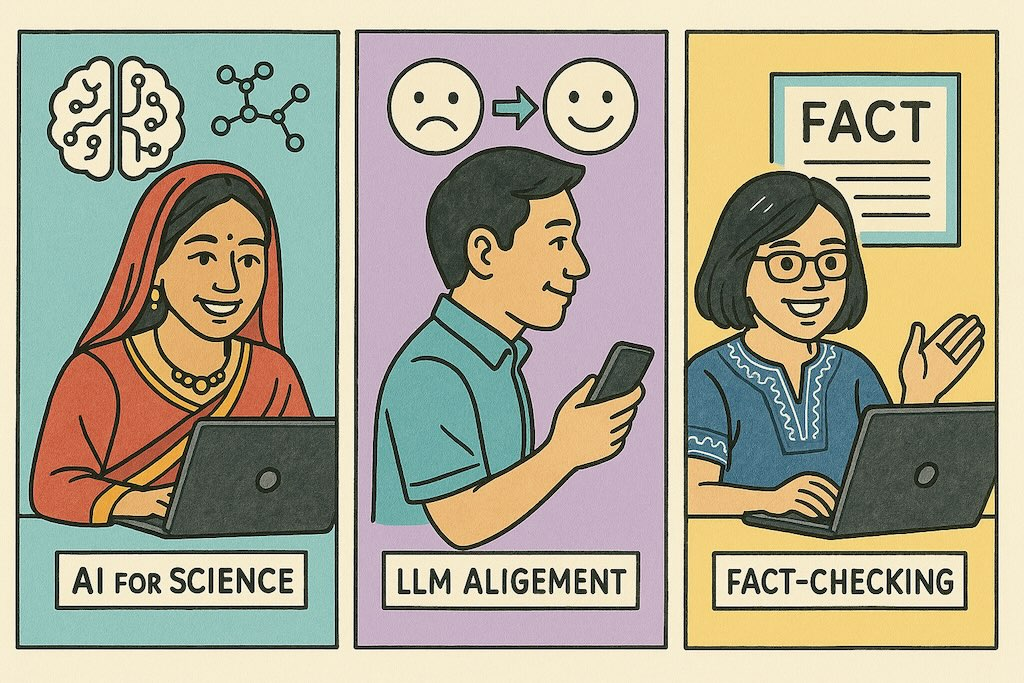
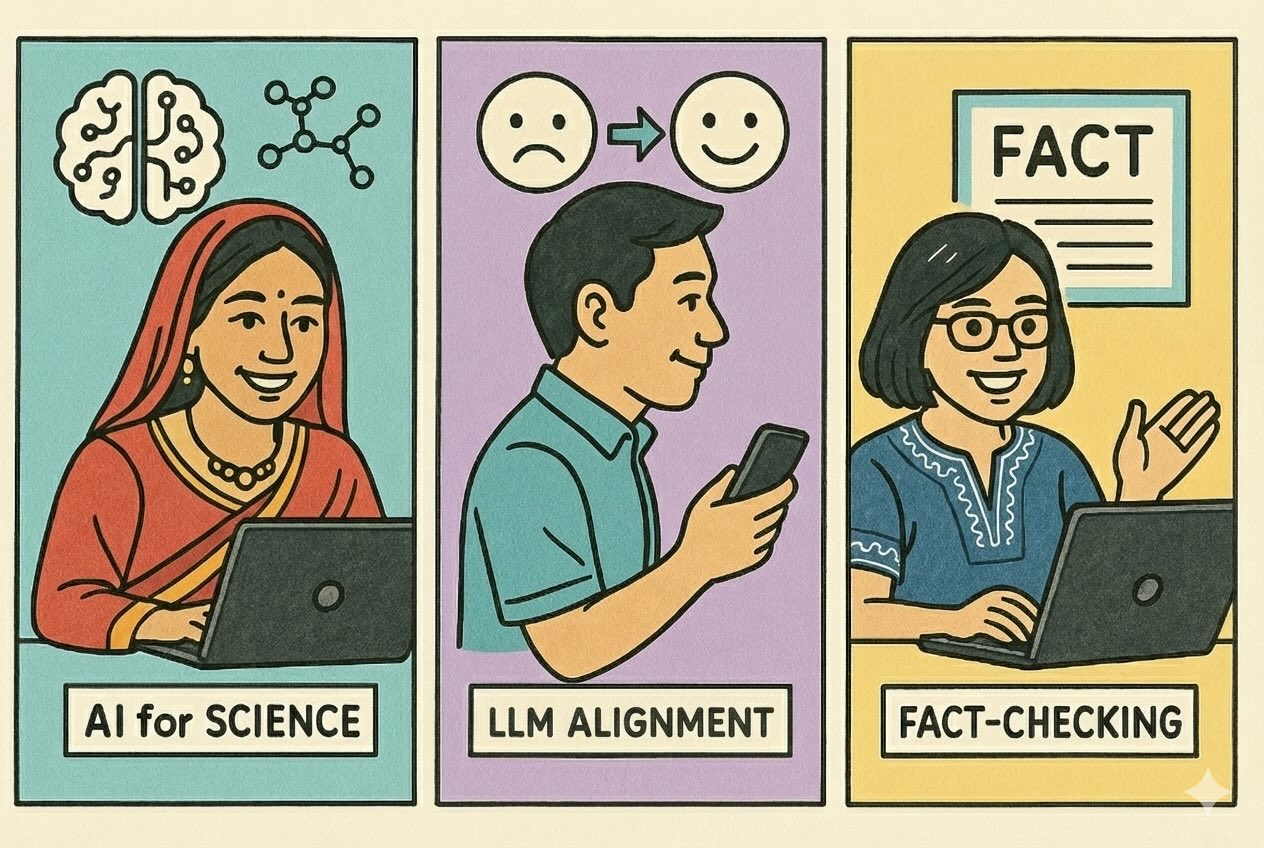
Fix links and spelling in image

diff --git a/content/post/25-12-15-postdoc-ad/index.md b/content/post/25-12-15-postdoc-ad/index.md
@@ -4,13 +4,11 @@ date: 2025-12-15
 authors: [min]
 ---
 
-The Web, Information Retrieval, Natural Language Processing Group (WING) at the National University of Singapore is seeking postdocs for immediate integration in 2026 with suitable IR and NLP background to lead initiatives in LLM Alignment, Fact-Checking and AI4Science.
+The [Web, Information Retrieval, and Natural Language Processing](https://wing.comp.nus.edu.sg) (WING) group at the [School of Computing, National University of Singapore](https://www.comp.nus.edu.sg/) is actively seeking postdoctoral scholars to start in 2026 across three cutting-edge research areas: AI for Science, LLM Socioethical Alignment, and Fact Checking. WING is led by Associate Professor [Kan Min-Yen](https://www.comp.nus.edu.sg/~kanmy/).
 
 <!--more-->
 
 <p align="center"><strong>Postdoctoral Positions Available at WING Lab, NUS (2026)</strong></p>
-
-The [Web, Information Retrieval, and Natural Language Processing](https://wing.comp.nus.edu.sg) (WING) group at the [School of Computing, National University of Singapore](https://www.comp.nus.edu.sg/) is actively seeking postdoctoral scholars to start in 2026 across three cutting-edge research areas: AI for Science, LLM Socioethical Alignment, and Fact Checking. WING is led by Associate Professor [Kan Min-Yen](https://www.comp.nus.edu.sg/~kanmy/).
 
 ## Research Areas
 
@@ -58,4 +56,4 @@ Due to the high volume of applications, only shortlisted candidates will be cont
 
 For more information about WING's research activities and recent publications, visit our lab website.
 
-_ChatGPT 5.2 was used to create the image and Claude 4 was used to refine the advertisement text_
+_ChatGPT 5.2 and Nano Banana was used to create the image. Claude 4 was used to refine the advertisement text_

diff --git a/content/contact/index.md b/content/contact/index.md
@@ -11,9 +11,9 @@ sections:
       text: |
         <div style="border:1px solid #2196f3; background-color:#e3f2fd; border-radius:6px; padding:16px; margin:16px 0;">
           <strong>News:</strong>
-          <a href="/post/25-12-14-postdoc-ad/">WING is looking for postdocs!</a><br>
+          <a href="/post/25-12-15-postdoc-ad/">WING is looking for postdocs!</a><br>
           We are seeking researchers with strong IR and NLP backgrounds for initiatives in AI4Science, LLM Alignment and Fact-Checking.
-          <a href="/post/25-12-14-postdoc-ad/">Read more &rarr;</a>
+          <a href="/post/25-12-15-postdoc-ad/">Read more &rarr;</a>
         </div>
 
         Interested in joining our research group? NUS students should check out the relevant research project or dissertation options (UROP, FYP, Masters, or Ph.D).

diff --git a/content/tour/index.md b/content/tour/index.md
@@ -25,7 +25,7 @@ sections:
           text: Join Us
           url: /contact/
         content: |
-          📣 [Alert! We are looking for postdoctoral scholars in the areas of AI4Science, LLM Alignment and Fact-Checking!](/post/26-12-14-postdoc-ad/)
+          📣 [Alert! We are looking for postdoctoral scholars in the areas of AI4Science, LLM Alignment and Fact-Checking!](/post/25-12-15-postdoc-ad/)
       - title: ACL'24 @ Thailand
         content: "Current WING and alumni at ACL '24 in Thailand!"
         align: center
